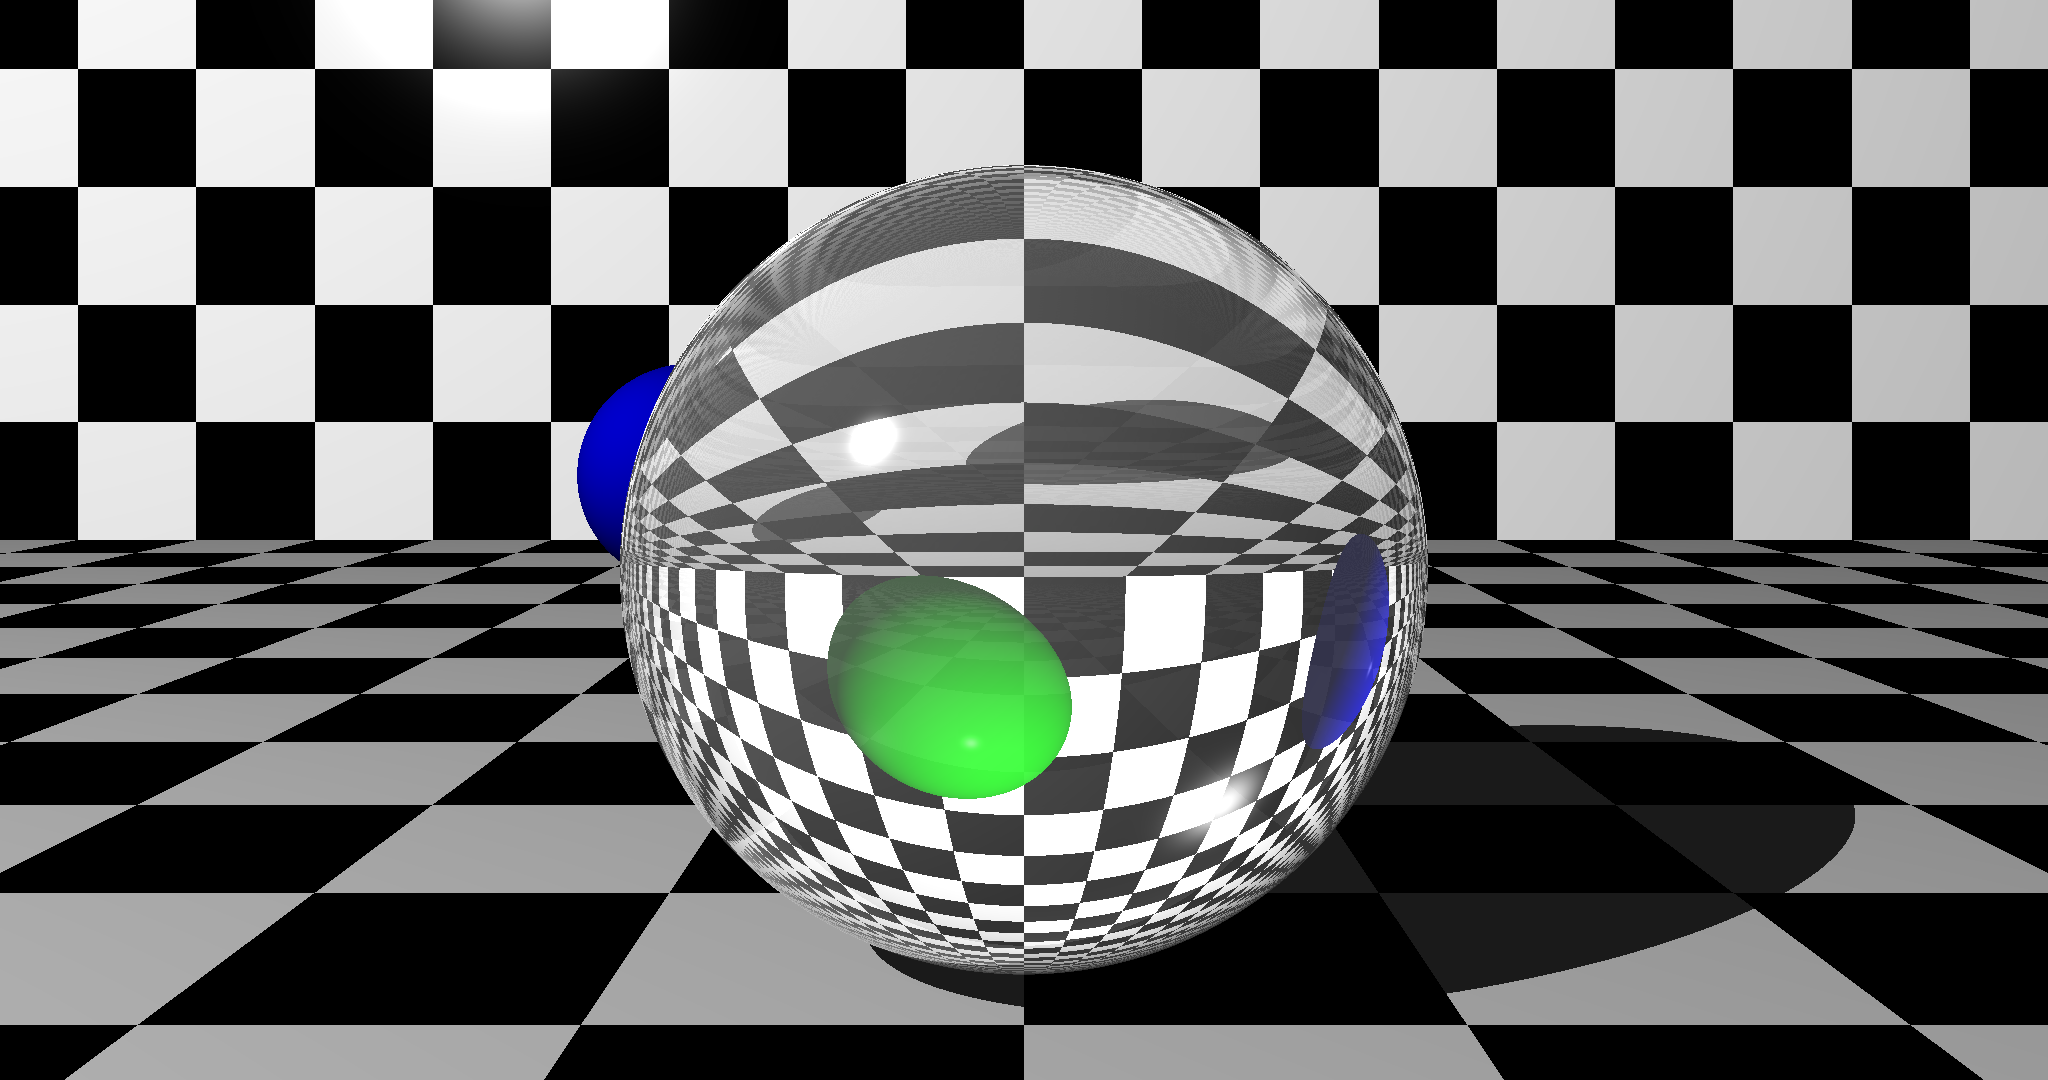
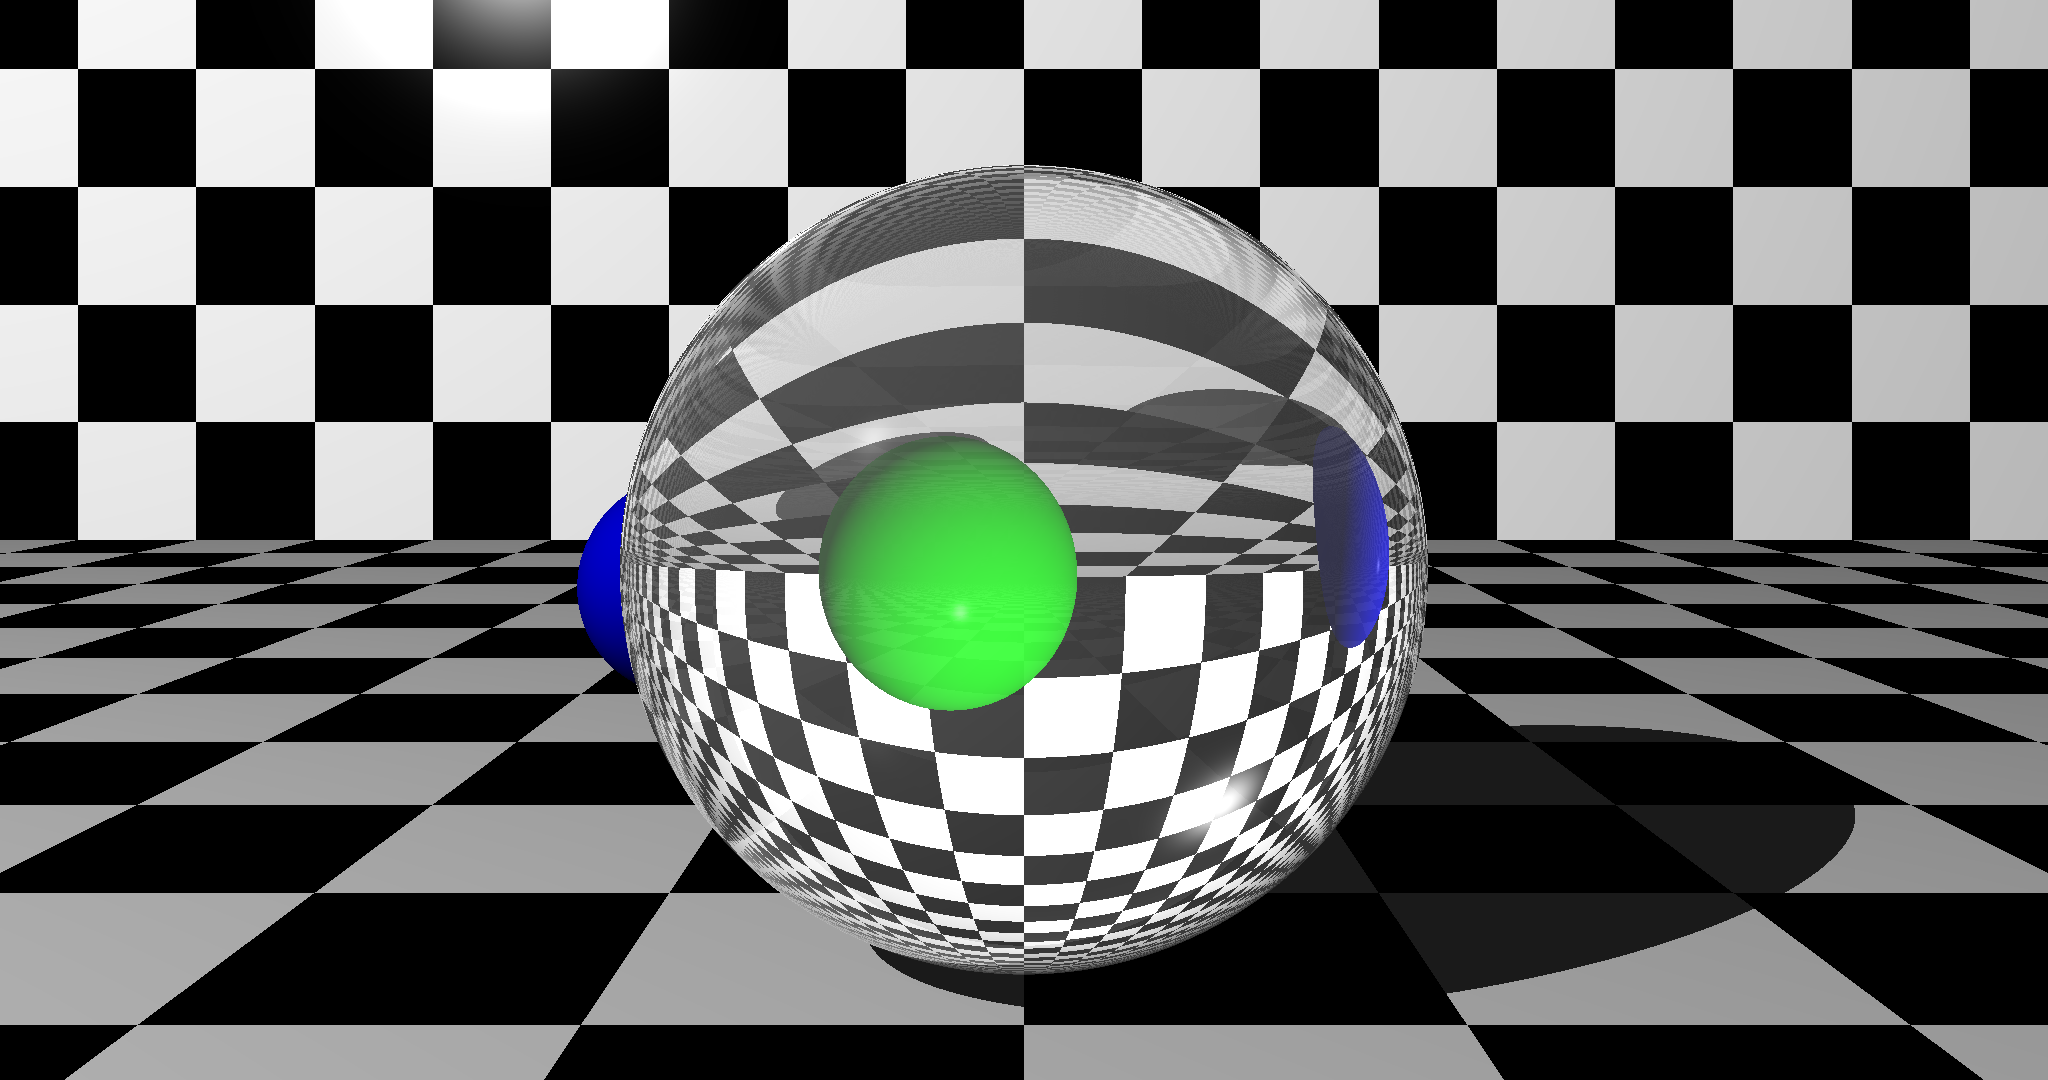
finish chapter 11

Changed region(s): [[0.375, 0.3667, 0.6875, 0.7639], [0.2812, 0.3361, 0.3438, 0.6417], [0.5312, 0.3361, 0.6562, 0.3972]]

diff --git a/src/main.rs b/src/main.rs
@@ -45,8 +45,8 @@ fn cap11() {
     wall.set_material(material);
 
     let mut a = Sphere::grass();
-    a.material.specular = 1.;
-    a.material.diffuse = 0.15;
+    a.material.specular = 0.1;
+    a.material.diffuse = 0.1;
     a.material.reflective = 1.0;
     a.material.transparency = 1.0;
     a.material.reflactive_index = 1.5;
@@ -57,13 +57,13 @@ fn cap11() {
     b.material.specular = 0.3;
     b.material.diffuse = 0.7;
     b.material.color = Color::new(0., 1., 0.);
-    b.transform = Matrix::translation(Tuple::vector(0.33, 1., 4.5)) * Matrix::scaling(Tuple::vector(0.5, 0.5, 0.5));
+    b.transform = Matrix::translation(Tuple::vector(0.33, 0.5, 4.5)) * Matrix::scaling(Tuple::vector(0.5, 0.5, 0.5));
 
     let mut c = Sphere::default();
     c.material.specular = 0.3;
     c.material.diffuse = 0.7;
     c.material.color = Color::new(0., 0., 1.);
-    c.transform = Matrix::translation(Tuple::vector(-1.5, 1., 3.)) * Matrix::scaling(Tuple::vector(0.5, 0.5, 0.5));
+    c.transform = Matrix::translation(Tuple::vector(-1.5, 0.5, 3.)) * Matrix::scaling(Tuple::vector(0.5, 0.5, 0.5));
 
     let light = Light::point_light(Tuple::point(-10., 10., -10.), Color::new(1., 1., 1.));
 
